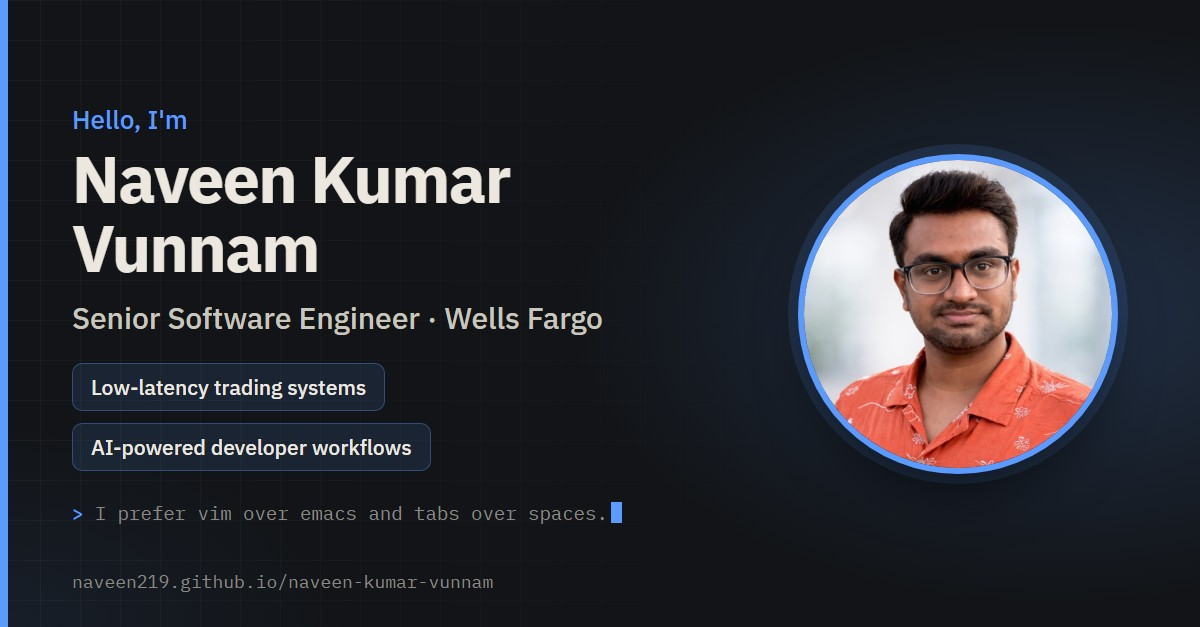
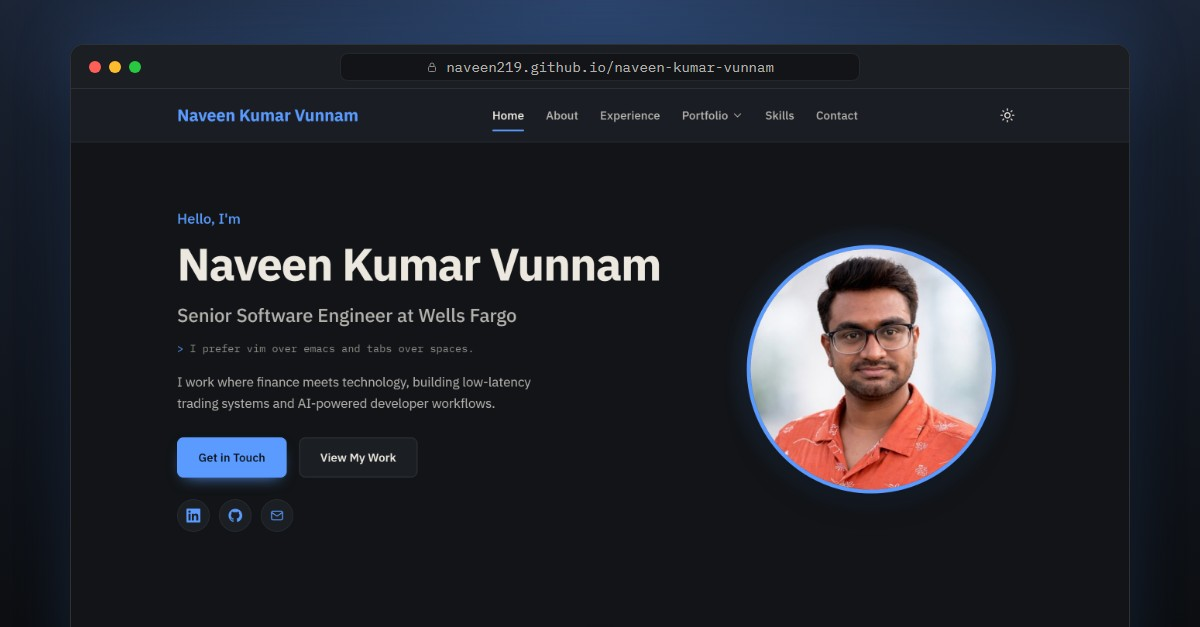
Use a site glimpse as the link preview image

diff --git a/index.html b/index.html
@@ -18,7 +18,7 @@
   <meta property="og:image:type" content="image/jpeg">
   <meta property="og:image:width" content="1200">
   <meta property="og:image:height" content="627">
-  <meta property="og:image:alt" content="Naveen Kumar Vunnam, Senior Software Engineer at Wells Fargo: low-latency trading systems and AI-powered developer workflows">
+  <meta property="og:image:alt" content="Preview of Naveen Kumar Vunnam's portfolio website">
   <meta name="twitter:card" content="summary_large_image">
   <meta name="twitter:title" content="Naveen Kumar Vunnam | Senior Software Engineer">
   <meta name="twitter:description" content="Low-latency trading systems and AI-powered developer workflows at Wells Fargo.">
